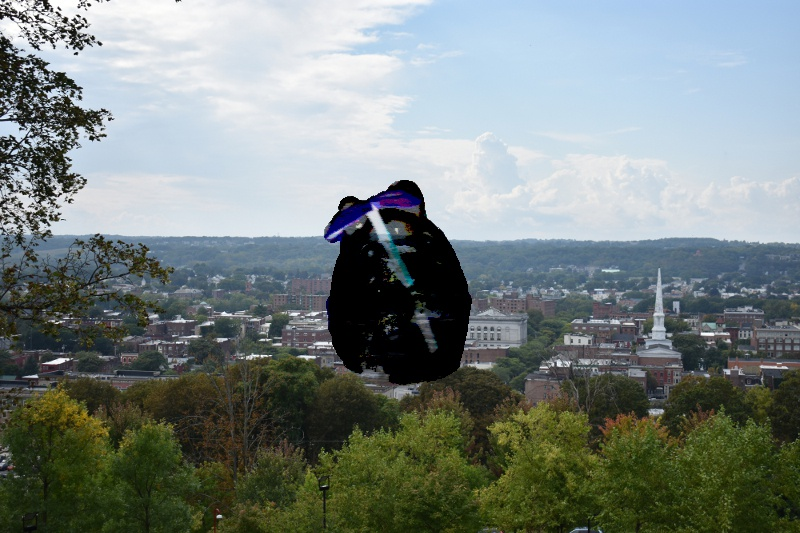
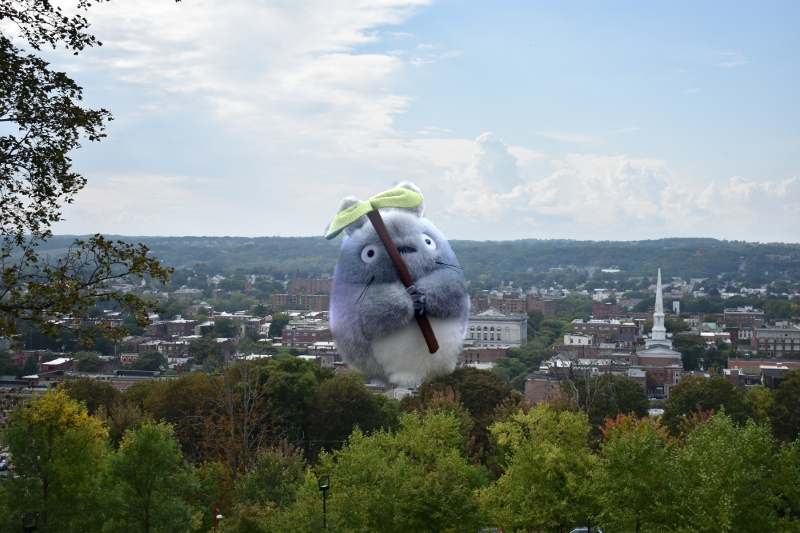
I did the thing. also working on inpainting with poisson

Changed region(s): [[0.4062, 0.3302, 0.5938, 0.7205]]

diff --git a/hw1/two.py b/hw1/two.py
@@ -1,95 +1,120 @@
 import cv2
 import numpy as np
+import scipy.sparse
+import scipy.sparse.linalg
 
-def gradient(img,y,x):
-	grad = np.array([0.0, 0.0, 0.0])
-	grad = img[y, x] * 4 - img[y + 1, x] - img[y - 1, x] - img[y, x + 1] - img[y, x - 1]
+# imports
+import os
+import random
+import sys
+import math
 
-	return grad
+def poisson(source, bitmask):
+	height = source.shape[0]
+	width = source.shape[1]
 
-def isophote(patch, patchSize):
-	p = patchSize//2+1
-	pGrad = np.array([patch[p,p,:] - patch[p+1,p,:], patch[p,p,:] - patch[p,p+1,:]])
+	mask3 = np.repeat(bitmask, 3, axis = 2)
 
-	return pGrad / np.linalg.norm(pGrad)
+	product = height * width
+	coeff = scipy.sparse.identity(product, format='lil')
+	gradients = np.zeros((product, 3), dtype=np.float)
 
-def orthoomega(bitPatch, patchSize):
-	p = patchSize//2+1
-	small = bitPatch[p-1:p+1,p-1:p+1,:]
-	sobelX = -small[0,0,:] - 2*small[0,1,:] - small[0,2,:] + small[2,0,:] + 2*small[2,1,:] + small[2,2,:]
-	sobelY = -small[0,0,:] - 2*small[1,0,:] - small[2,0,:] + small[0,2,:] + 2*small[1,2,:] + small[2,2,:]
-	sobelVec = np.array([sobelX,sobelY])
-	return sobelVec / np.linalg.norm(sobelVec)
+	#process coefficients and gradients
 
-def confidence(bitPatch, patchSize):
-    total = 0
+	for y in range(height):
+		for x in range(width):
 
-    for i in range(patchSize):
-        for j in range(patchSize):
-            if not bitPatch[i,j]:
-                total += 1
+			index = x + y * width
 
-    return total / (patchSize * patchSize)
+			if bitmask[y,x] == 1:
+				# tempGradient = np.array([0.0, 0.0, 0.0])
+				coeff[index, index] = 4
+				grad = [0.0,0.0,0.0] + source[y, x] * 4.0
 
-def data(patch, bitPatch, patchSize):
-	# p is the coordinate of the center pixel of the patch
-	p = patchSize//2+1
+				if y - 1 >= 0:
+					grad -= source[y - 1, x]
 
-	# find the scalar magnitude of the gradient at p
-    gradMag = np.linalg.norm(np.linalg.norm(gradient(patch, p, p)))
+					if bitmask[y - 1, x] == 1:
+						coeff[index, index - 1] = -1
+					# else:
+						# tempGradient += target[y - 1, x]
 
-	# find the isophote at p
-    isophote = isophote(patch, patchSize)
+				if y + 1 < height:
+					grad -= source[y + 1, x]
 
-	# find the
-	normalAtP = orthoomega(bitPatch, patchSize)
+					if bitmask[y + 1, x] == 1:
+						coeff[index, index + 1] = -1
 
-	return gradMag * np.linalg.norm(np.dot(isophote, normalAtP))
+					# else:
+						# tempGradient += target[y + 1, x]
 
-def inpaint(img, bitMask, patchSize):
-    height = img.shape[0]
-    width = img.shape[1]
+				if x - 1 >= 0:
+					grad-= source[y, x - 1]
 
-	importantX = 0
-	importantY = 0
-	importance = 0
+					if bitmask[y, x - 1] == 1:
+						coeff[index, index - width] = -1
+					# else:
+						# tempGradient += target[y, x - 1]
 
-	# go through every pixel checking its importance
-    for i in range(patchSize // 2 + 1, height - patchSize // 2):
-        for j in range(patchSize // 2 + 1, width - patchSize // 2):
-			# check if pixel is on an edge
-			# we're not too worried about selecting a pixel not on the seam since
-			# confidence would be too low to select it
-            if bitMask[i,j,:]:
-				# select a neighborhood around the current pixel of size patchSize*patchSize
-                bitPatch = bitMask[i-patchSize//2:i+patchSize//2,j-patchSize//2:j+patchSize//2,:]
-                patch = img[i-patchSize//2:i+patchSize//2,j-patchSize//2:j+patchSize//2,:]
+				if x + 1 < width:
+					grad -= source[y, x + 1]
 
-				# compute the confidence and data terms around this pixel
-                cP = confidence(bitPatch, patchSize)
-                dP = data(patch, bitPatch, patchSize)
+					if bitmask[y, x + 1] == 1:
+						coeff[index, index + width] = -1
+					# else:
+						# tempGradient += target[y, x + 1]
 
-				# if the combined score is higher than the highest "importance" score,
-				# select this pixel instead
-				if cP*dP > importance:
-					importance = cP * dP
-					importantY = i
-					importantX = j
+				# gradients[index] = grad
 
-	# now search for the known patch that's most similar and replace our unknown patch
+			else:
+				gradients[index] = source[y, x]
 
-if __name__ == '__main__':
-    inputImgSrc = sys.argv[1]
-    bitMaskSrc = sys.argv[2]
-    outputImgSrc = sys.argv[3]
-    patchSize = sys.argv[4]
 
-    inputImg = cv2.imread(inputImgSrc)
-    bitMask = cv2.imread(bitMaskSrc)[:,:,:1]
+	coeff = coeff.tocsr()
 
-    # set any non-zero values to 1
-    bitMask[bitMask > 0] = 1
+	colors = np.zeros(source.shape,source.dtype)
 
-    outputImg = inpaint(inputImg, bitMask, patchSize)
+	for i in range(3):
+		x = scipy.sparse.linalg.spsolve(coeff, gradients[:, i])
 
-    cv2.imwrite(outputImgSrc, outputImg)
+		#can be 318 or <0, so clamp
+		x[x > 255] = 255
+		x[x < 0] = 0
+
+		colors[:,:,i] = x.reshape(height,width).astype(np.uint8)
+
+	'''
+	#mix the gradients
+	alpha = 0.5
+	rGradientSource = (alpha) * rGradientSource + (1 - alpha) * rGradientTarget
+	gGradientSource = (alpha) * gGradientSource + (1 - alpha) * gGradientTarget
+	bGradientSource = (alpha) * bGradientSource + (1 - alpha) * bGradientTarget
+	'''
+
+	return colors
+
+
+if __name__ == "__main__":
+
+	img1Name = sys.argv[1]
+	bitName = sys.argv[2]
+	imgNameOut = sys.argv[3]
+
+	source = cv2.imread(img1Name)
+	bitmask = cv2.imread(bitName,0).reshape(source.shape[0],source.shape[1],1)#read only one channel (they should all the same)
+
+	bitmask[bitmask < 255] = 0
+	bitmask[bitmask >= 255] = 1
+
+	#bitmask is now either 0 or 1
+
+	result = poisson(source,bitmask)
+
+	'''
+	#OpenCV implementation
+	center = (int(target.shape[1]/2),int(target.shape[0]/2))
+
+	result = cv2.seamlessClone(source, target, bitmask, center, cv2.NORMAL_CLONE)
+	'''
+
+	cv2.imwrite(imgNameOut, result)

diff --git a/hw1/patch.py b/hw1/patch.py
@@ -1,0 +1,95 @@
+import cv2
+import numpy as np
+
+def gradient(img,y,x):
+	grad = np.array([0.0, 0.0, 0.0])
+	grad = img[y, x] * 4 - img[y + 1, x] - img[y - 1, x] - img[y, x + 1] - img[y, x - 1]
+
+	return grad
+
+def isophote(patch, patchSize):
+	p = patchSize//2+1
+	pGrad = np.array([patch[p,p,:] - patch[p+1,p,:], patch[p,p,:] - patch[p,p+1,:]])
+
+	return pGrad / np.linalg.norm(pGrad)
+
+def orthoomega(bitPatch, patchSize):
+	p = patchSize//2+1
+	small = bitPatch[p-1:p+1,p-1:p+1,:]
+	sobelX = -small[0,0,:] - 2*small[0,1,:] - small[0,2,:] + small[2,0,:] + 2*small[2,1,:] + small[2,2,:]
+	sobelY = -small[0,0,:] - 2*small[1,0,:] - small[2,0,:] + small[0,2,:] + 2*small[1,2,:] + small[2,2,:]
+	sobelVec = np.array([sobelX,sobelY])
+	return sobelVec / np.linalg.norm(sobelVec)
+
+def confidence(bitPatch, patchSize):
+    total = 0
+
+    for i in range(patchSize):
+        for j in range(patchSize):
+            if not bitPatch[i,j]:
+                total += 1
+
+    return total / (patchSize * patchSize)
+
+def data(patch, bitPatch, patchSize):
+	# p is the coordinate of the center pixel of the patch
+	p = patchSize//2+1
+
+	# find the scalar magnitude of the gradient at p
+    gradMag = np.linalg.norm(np.linalg.norm(gradient(patch, p, p)))
+
+	# find the isophote at p
+    isophote = isophote(patch, patchSize)
+
+	# find the
+	normalAtP = orthoomega(bitPatch, patchSize)
+
+	return gradMag * np.linalg.norm(np.dot(isophote, normalAtP))
+
+def inpaint(img, bitMask, patchSize):
+    height = img.shape[0]
+    width = img.shape[1]
+
+	importantX = 0
+	importantY = 0
+	importance = 0
+
+	# go through every pixel checking its importance
+    for i in range(patchSize // 2 + 1, height - patchSize // 2):
+        for j in range(patchSize // 2 + 1, width - patchSize // 2):
+			# check if pixel is on an edge
+			# we're not too worried about selecting a pixel not on the seam since
+			# confidence would be too low to select it
+            if bitMask[i,j,:]:
+				# select a neighborhood around the current pixel of size patchSize*patchSize
+                bitPatch = bitMask[i-patchSize//2:i+patchSize//2,j-patchSize//2:j+patchSize//2,:]
+                patch = img[i-patchSize//2:i+patchSize//2,j-patchSize//2:j+patchSize//2,:]
+
+				# compute the confidence and data terms around this pixel
+                cP = confidence(bitPatch, patchSize)
+                dP = data(patch, bitPatch, patchSize)
+
+				# if the combined score is higher than the highest "importance" score,
+				# select this pixel instead
+				if cP*dP > importance:
+					importance = cP * dP
+					importantY = i
+					importantX = j
+
+	# now search for the known patch that's most similar and replace our unknown patch
+
+if __name__ == '__main__':
+    inputImgSrc = sys.argv[1]
+    bitMaskSrc = sys.argv[2]
+    outputImgSrc = sys.argv[3]
+    patchSize = sys.argv[4]
+
+    inputImg = cv2.imread(inputImgSrc)
+    bitMask = cv2.imread(bitMaskSrc)[:,:,:1]
+
+    # set any non-zero values to 1
+    bitMask[bitMask > 0] = 1
+
+    outputImg = inpaint(inputImg, bitMask, patchSize)
+
+    cv2.imwrite(outputImgSrc, outputImg)

diff --git a/hw1/one.py b/hw1/one.py
@@ -1,4 +1,4 @@
-import cv2         
+import cv2
 import numpy as np
 import scipy.sparse
 import scipy.sparse.linalg
@@ -15,7 +15,7 @@ def poisson(source,target, bitmask):
 
 	mask3 = np.repeat(bitmask, 3, axis = 2)
 
-	product = target.shape[0] * target.shape[1]
+	product = height * width
 	coeff = scipy.sparse.identity(product, format='lil')
 	gradients = np.zeros((product, 3), dtype=np.float)
 
@@ -29,7 +29,7 @@ def poisson(source,target, bitmask):
 			if bitmask[y,x] == 1:
 				tempGradient = np.array([0.0, 0.0, 0.0])
 				coeff[index, index] = 4
-				grad = [0.0,0.0,0.0] + source[y, x] * 4
+				grad = [0.0,0.0,0.0] + source[y, x] * 4.0
 
 				if y - 1 >= 0:
 					grad -= source[y - 1, x]
@@ -57,7 +57,7 @@ def poisson(source,target, bitmask):
 						tempGradient += target[y, x - 1]
 
 				if x + 1 < width:
-					grad -= source[y, x + 1] 
+					grad -= source[y, x + 1]
 
 					if bitmask[y, x + 1] == 1:
 						coeff[index, index + width] = -1
@@ -95,7 +95,7 @@ def poisson(source,target, bitmask):
 
 
 if __name__ == "__main__":
-	
+
 	img1Name = sys.argv[1]
 	img2Name = sys.argv[2]
 	bitName = sys.argv[3]
@@ -109,17 +109,14 @@ if __name__ == "__main__":
 	bitmask[bitmask >= 255] = 1
 
 	#bitmask is now either 0 or 1
-	
+
 	result = poisson(source, target,bitmask)
 
 	'''
 	#OpenCV implementation
 	center = (int(target.shape[1]/2),int(target.shape[0]/2))
-	
+
 	result = cv2.seamlessClone(source, target, bitmask, center, cv2.NORMAL_CLONE)
 	'''
 
 	cv2.imwrite(imgNameOut, result)
-
-
-
